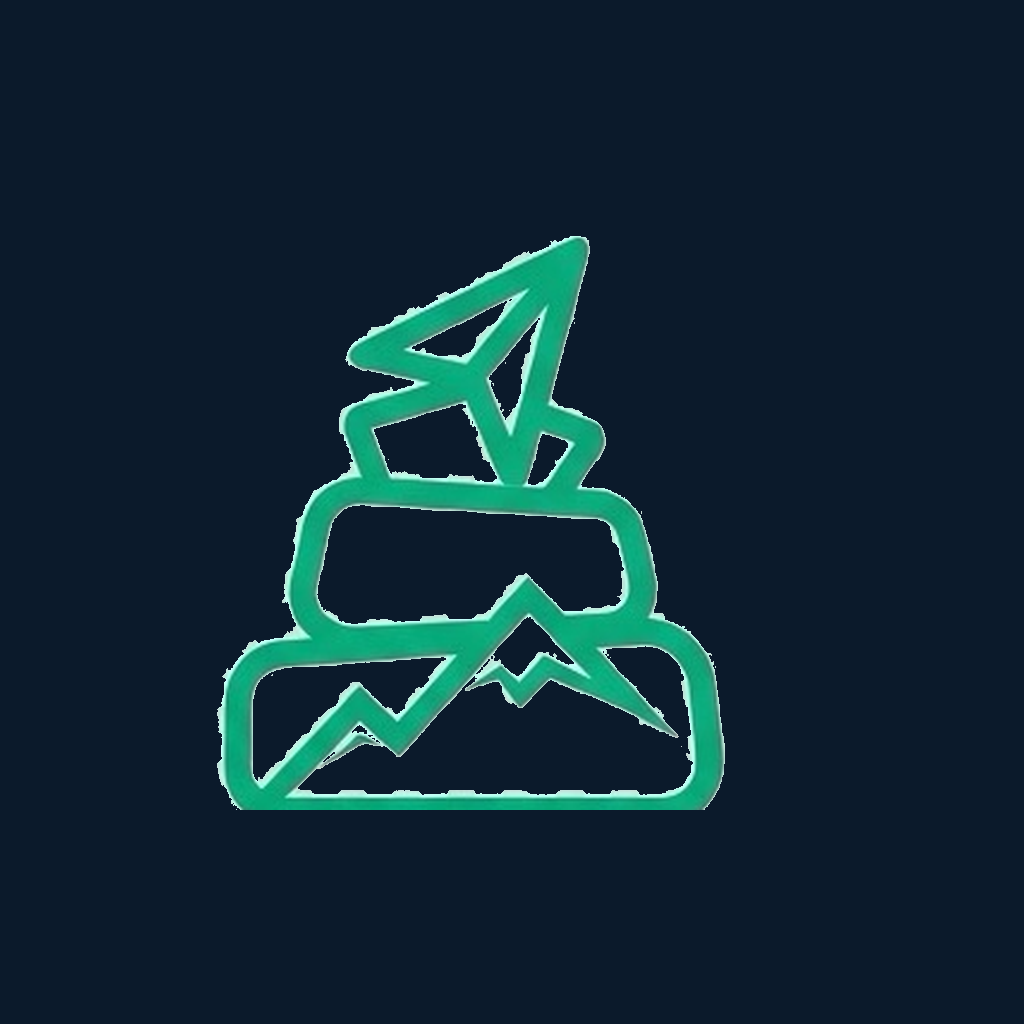
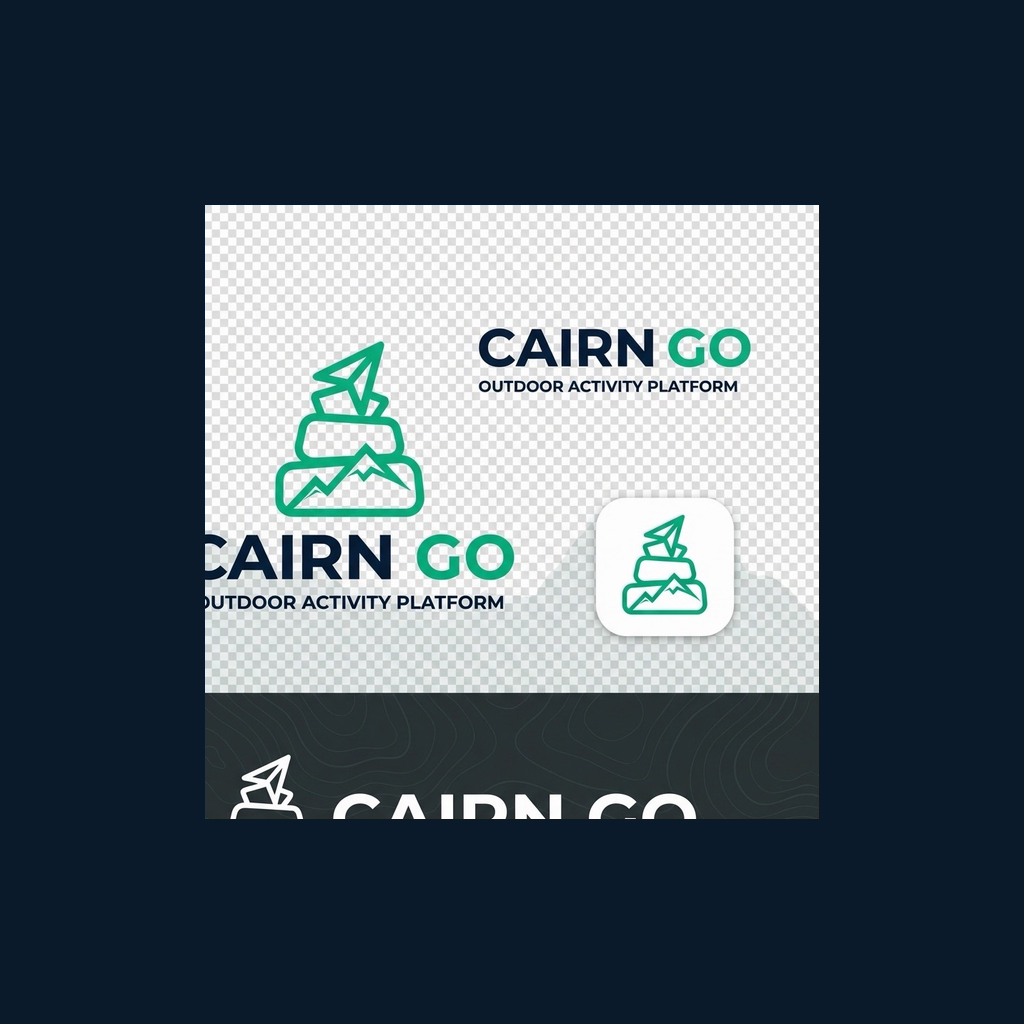
fix: add NativeWind babel presets for production className support
The babel.config.js was missing jsxImportSource: "nativewind" and the
nativewind/babel preset, causing all className props to be silently
ignored in production builds. Also regenerated app icons with LANCZOS
resampling for crisp rendering.

diff --git a/apps/mobile/babel.config.js b/apps/mobile/babel.config.js
@@ -1,7 +1,9 @@
 module.exports = function (api) {
   api.cache(true);
   return {
-    presets: ['babel-preset-expo'],
-    plugins: ['react-native-reanimated/plugin'],
+    presets: [
+      ["babel-preset-expo", { jsxImportSource: "nativewind" }],
+      "nativewind/babel",
+    ],
   };
 };
